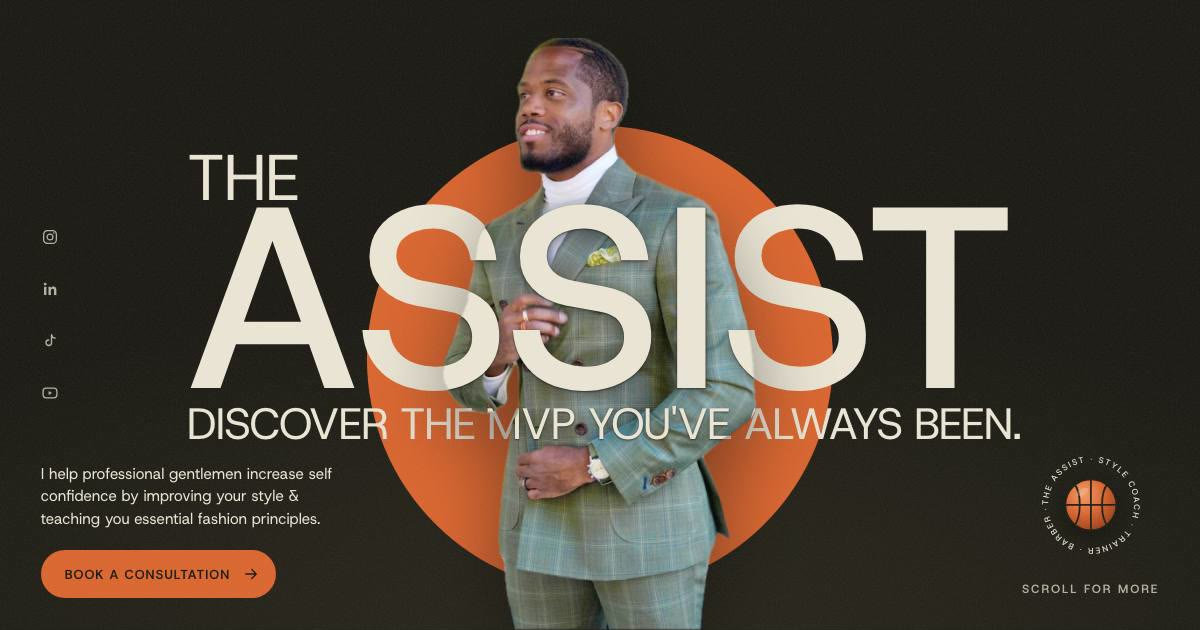
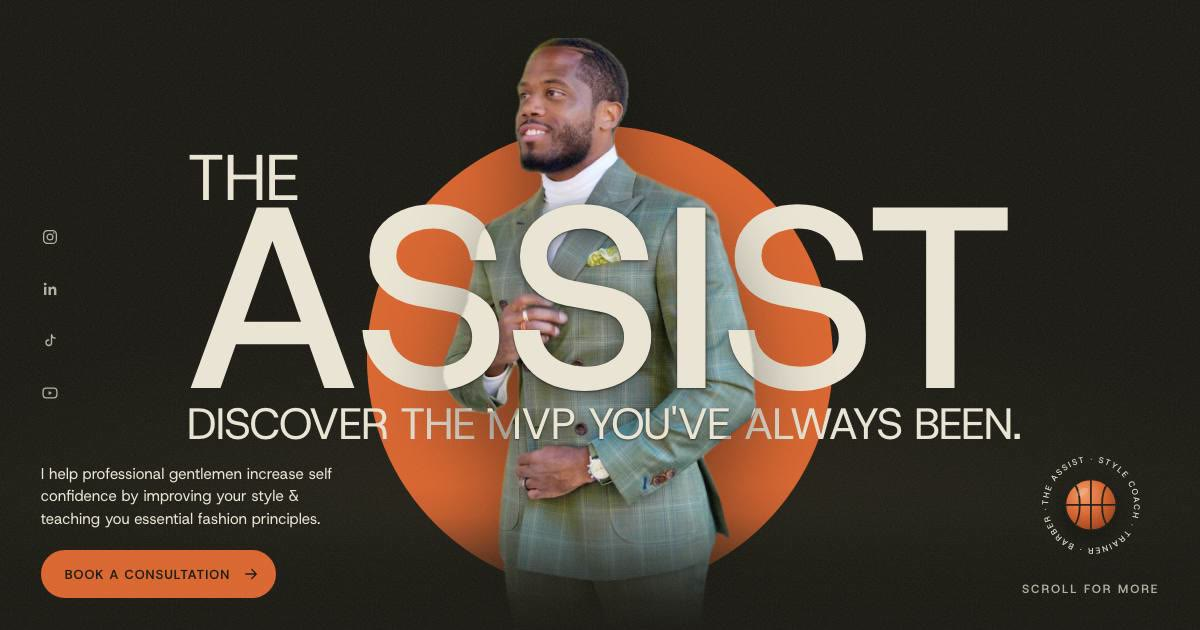
Sections ease into each other instead of switching on a hard line
Every coloured ground (hero glow, Find Your Play band, the lookbook's
olive half, the footer) now fades in from night and back out over
clamp(96px, 12vw, 200px) with an eased six-stop gradient. The hero
fades Marcus and the disc into Meet Marcus the same way, so the thin
divider rules under the hero on phones and tablets are gone.

Changed region(s): [[0.3392, 0.8143, 0.6475, 1.0]]

diff --git a/assets/css/site.css b/assets/css/site.css
@@ -6,6 +6,10 @@
   --orange:#d9622b; --orange-hi:#ec7a43;
   --sans:'Host Grotesk',system-ui,-apple-system,'Segoe UI',sans-serif; --mono:var(--sans);
   --pad:clamp(16px,3.4vw,48px); --max:1440px;
+  /* sections never switch colour on a hard line: each coloured ground eases in from night and back out over --fade */
+  --fade:clamp(96px,12vw,200px);
+  --from-night:linear-gradient(var(--night),rgba(22,21,15,.92) 20%,rgba(22,21,15,.7) 40%,rgba(22,21,15,.38) 60%,rgba(22,21,15,.1) 80%,rgba(22,21,15,0));
+  --to-night:linear-gradient(rgba(22,21,15,0),rgba(22,21,15,.1) 20%,rgba(22,21,15,.38) 40%,rgba(22,21,15,.7) 60%,rgba(22,21,15,.92) 80%,var(--night));
   /* spacing runs on a 4px scale: 4 8 12 16 20 24 32 40 48 56 64 96, plus the fluid section and gutter clamps */
   --ease:cubic-bezier(.16,1,.3,1);
 }
@@ -64,7 +68,7 @@ body::after{content:"";position:fixed;inset:-50%;pointer-events:none;z-index:150
 .menu__foot{position:absolute;left:var(--pad);bottom:32px;display:flex;gap:24px;flex-wrap:wrap}
 
 /* hero */
-.hero{position:relative;height:100svh;min-height:640px;max-height:1100px;overflow:hidden;background:radial-gradient(120% 90% at 50% 100%,#262318 0%,var(--night) 60%)}
+.hero{position:relative;height:100svh;min-height:640px;max-height:1100px;overflow:hidden;background:var(--to-night) bottom/100% var(--fade) no-repeat,radial-gradient(120% 90% at 50% 100%,#262318 0%,var(--night) 60%)}
 .hero__disc{position:absolute;left:50%;bottom:6%;width:min(54vw,74svh);aspect-ratio:1;border-radius:50%;background:var(--orange);transform:translateX(-50%);z-index:1}
 .hero__type{position:absolute;inset:0;z-index:2;margin:0;pointer-events:none;text-transform:uppercase;font-weight:500;letter-spacing:-.045em;color:var(--bone)}
 .hero__type span{position:absolute;display:block;white-space:nowrap;line-height:.8}
@@ -73,6 +77,7 @@ body::after{content:"";position:fixed;inset:-50%;pointer-events:none;z-index:150
 .t-b{left:50%;top:31%;transform:translateX(-50%);font-size:clamp(84px,21.5vw,380px)}
 .t-c{left:.02em;top:102%;font-size:.17em;font-weight:400;letter-spacing:-.03em}
 .hero__type--line{z-index:4;color:var(--bone);text-shadow:0 1px 2px rgba(22,21,15,.7),0 3px 18px rgba(22,21,15,.6);-webkit-mask:url(../img/marcus-sage-cutout.webp) 50% 100%/auto min(94%,1000px) no-repeat;mask:url(../img/marcus-sage-cutout.webp) 50% 100%/auto min(94%,1000px) no-repeat}
+.hero__stage::after{content:"";position:absolute;left:0;right:0;bottom:0;height:var(--fade);z-index:4;pointer-events:none;background:var(--to-night)}
 .hero__marcus{position:absolute;left:50%;bottom:0;height:min(94%,1000px);width:auto;max-width:none;transform:translateX(-50%);z-index:3;filter:drop-shadow(0 30px 40px rgba(0,0,0,.45))}
 .hero__lede{position:absolute;left:var(--pad);bottom:clamp(32px,5svh,56px);z-index:5;max-width:min(30ch,26vw);display:flex;flex-direction:column;align-items:flex-start;gap:20px}
 .hero__lede p{margin:0;font-size:clamp(15px,1.15vw,18px);line-height:1.5;color:var(--bone)}
@@ -139,6 +144,10 @@ body::after{content:"";position:fixed;inset:-50%;pointer-events:none;z-index:150
 
 /* find your play band */
 .band{position:relative;background:var(--band);overflow:hidden;min-height:clamp(380px,46vw,620px);display:grid;place-items:center;text-align:center;isolation:isolate}
+.band::before,.band::after{content:"";position:absolute;left:0;right:0;height:var(--fade);pointer-events:none}
+.band::before{top:0;background:var(--from-night)}
+.band::after{bottom:0;background:var(--to-night)}
+.band .wrap{position:relative;z-index:1}
 .band__img{position:absolute;top:0;bottom:0;width:34%;z-index:-1}
 .band__img{opacity:.5}
 .band__img img{width:100%;height:100%;object-fit:cover}
@@ -182,7 +191,7 @@ body::after{content:"";position:fixed;inset:-50%;pointer-events:none;z-index:150
 .lb__strip button:hover,.lb__strip button:focus-visible{transform:translateY(-10px)}
 .lb__strip button:focus-visible{outline:2px solid var(--orange);outline-offset:3px}
 .lb__strip button[aria-pressed="true"]{outline:2px solid var(--orange);outline-offset:3px}
-.lb__right{background:var(--band);display:flex;flex-direction:column;justify-content:center;align-items:center;gap:24px;padding:clamp(48px,6vw,96px) var(--pad);text-align:center}
+.lb__right{background:var(--from-night) top/100% var(--fade) no-repeat,var(--to-night) bottom/100% var(--fade) no-repeat,linear-gradient(90deg,var(--night),rgba(22,21,15,.7) 30%,rgba(22,21,15,.2) 70%,rgba(22,21,15,0)) left/var(--fade) 100% no-repeat,var(--band);display:flex;flex-direction:column;justify-content:center;align-items:center;gap:24px;padding:clamp(48px,6vw,96px) var(--pad);text-align:center}
 .lb__feature{width:min(78%,440px);aspect-ratio:4/5;overflow:hidden;background:var(--umber)}
 .lb__feature img{width:100%;height:100%;object-fit:cover;transform:scale(1.07);transition:opacity .45s ease}
 .lb__feature img.swap{opacity:0}
@@ -233,7 +242,7 @@ form.form{display:grid;grid-template-columns:1fr 1fr;gap:56px 32px}
 .foot__note a:hover{color:var(--orange-hi)}
 
 /* footer */
-footer{background:var(--band);padding:clamp(48px,6vw,80px) 0 32px}
+footer{background:var(--from-night) top/100% var(--fade) no-repeat,var(--band);padding:clamp(48px,6vw,80px) 0 32px}
 .foot{display:grid;grid-template-columns:minmax(0,6fr) repeat(2,minmax(0,3fr));gap:32px}
 .foot ul{list-style:none;margin:0;padding:0;display:grid;gap:2px;align-content:start}
 .foot ul a{display:inline-flex;align-items:center;min-height:44px;text-decoration:none;font:500 13px var(--sans);letter-spacing:.1em;text-transform:uppercase;color:var(--bone-dim)}
@@ -249,6 +258,7 @@ footer{background:var(--band);padding:clamp(48px,6vw,80px) 0 32px}
   .book{row-gap:64px}
   .meet__copy{position:static}
   .lookbook{grid-template-columns:minmax(0,1fr)}
+  .lb__right{background:var(--from-night) top/100% var(--fade) no-repeat,var(--to-night) bottom/100% var(--fade) no-repeat,var(--band)}
   .lb__left{padding-bottom:clamp(48px,6vw,96px)}
   .lb__strip{position:static;align-self:stretch;margin-top:24px}
   .hero__lede{max-width:34ch}
@@ -258,7 +268,7 @@ footer{background:var(--band);padding:clamp(48px,6vw,80px) 0 32px}
 /* tablet: Marcus fills the width, so the intro and badge move out from over his suit to a row below him */
 @media (min-width:761px) and (max-width:1024px){
   .hero{height:auto;min-height:0;max-height:none;display:flex;align-items:flex-end;justify-content:space-between;flex-wrap:wrap;gap:32px;padding-bottom:40px}
-  .hero__stage{position:relative;flex:0 0 100%;height:clamp(600px,calc(100svh - 220px),940px);border-bottom:1px solid var(--rule)}
+  .hero__stage{position:relative;flex:0 0 100%;height:clamp(600px,calc(100svh - 220px),940px)}
   .hero__lede{position:static;max-width:44ch;padding-left:var(--pad)}
   .badge{position:static;padding:0 var(--pad) 0 0}
 }
@@ -274,7 +284,7 @@ footer{background:var(--band);padding:clamp(48px,6vw,80px) 0 32px}
   .hero__type--line{-webkit-mask-size:auto 86%;mask-size:auto 86%}
   .hero__marcus{height:86%}
   .hero__social{display:none}
-  .hero__lede{position:static;max-width:none;padding:24px var(--pad) 8px;border-top:1px solid var(--rule)}
+  .hero__lede{position:static;max-width:none;padding:24px var(--pad) 8px}
   .badge{position:static;flex-direction:row;padding:8px var(--pad) 32px;justify-content:flex-start}
   .badge__ring{width:96px}
   .panels{height:auto;flex-direction:column;gap:2px}
